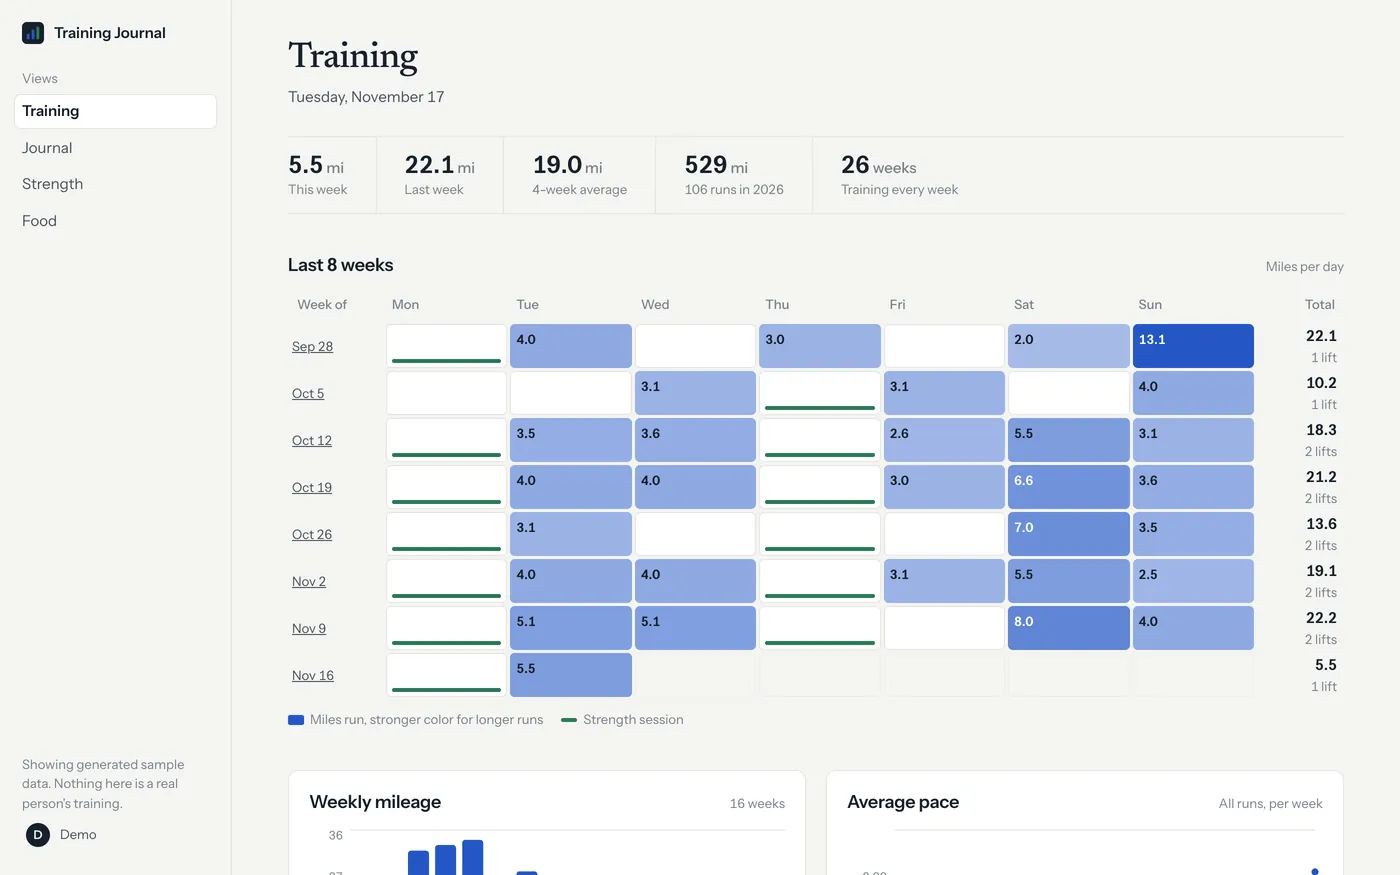
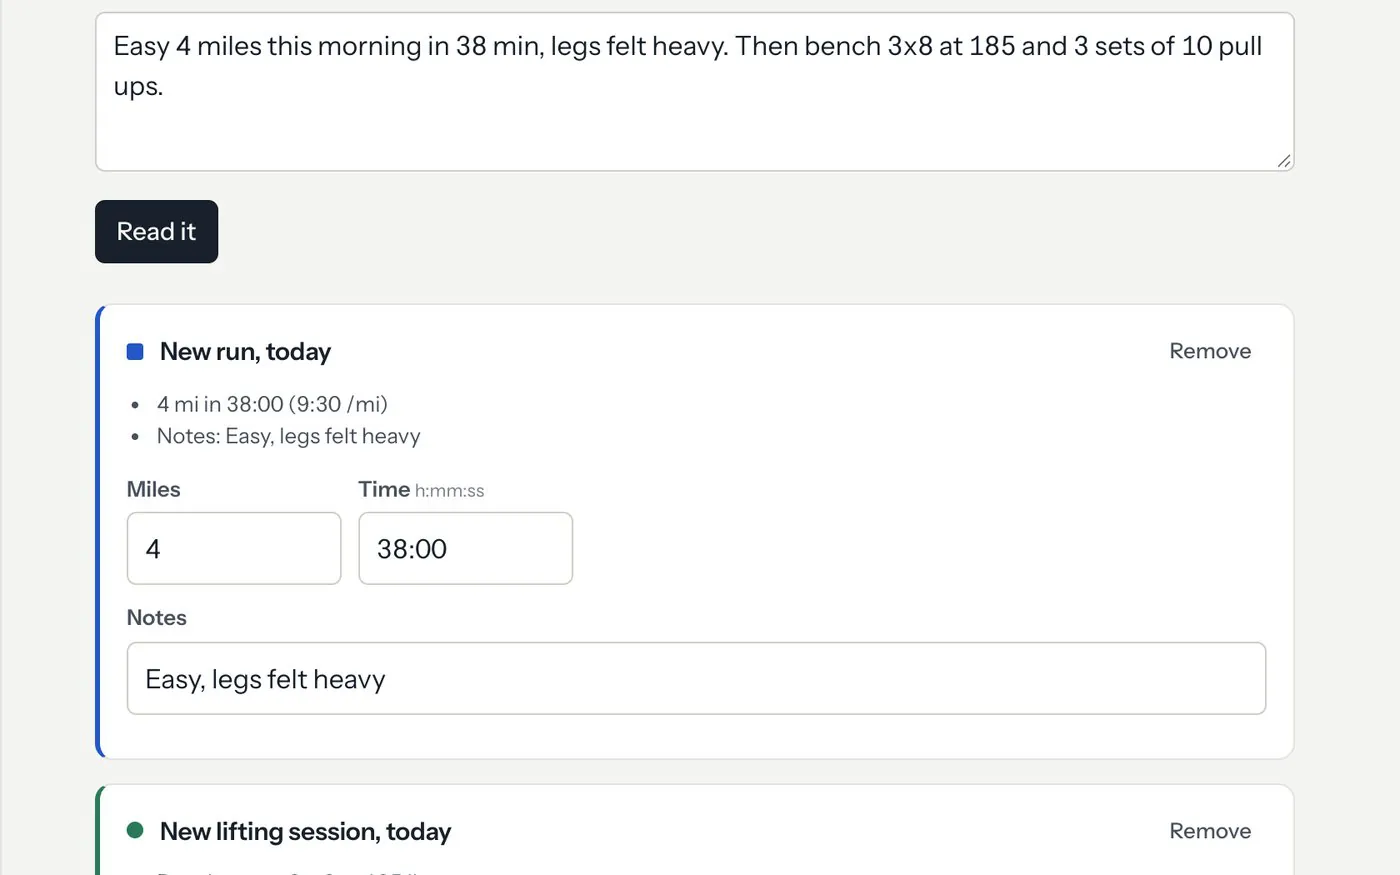
Show Describe it on the Training Journal card

diff --git a/src/data/projects.js b/src/data/projects.js
@@ -57,12 +57,12 @@ const projects = [
     },
     {
         title: "Training Journal",
-        tech: "React, TypeScript, Java, Spring Boot, MongoDB, Python, Docker",
+        tech: "React, TypeScript, Java, Spring Boot, MongoDB, Python, Docker, Ollama",
         headline: "A training log for running, lifting and food.",
         description:
-            "Each run or lift is a journal entry with notes. The dashboard shows weekly mileage, pace trends, best efforts and strength progression. Runs sync from Garmin Connect on a schedule. Food logging tracks daily macros, with food search, barcode scanning and a calorie target set from your weight goal. It installs on a phone like an app, and anyone can try it with sample data and one docker compose up.",
+            "Each run or lift is a journal entry with notes. The dashboard shows weekly mileage, pace trends, best efforts and strength progression. Runs sync from Garmin Connect on a schedule. Food logging tracks daily macros, with food search, barcode scanning and a calorie target set from your weight goal. You can also just describe what you did, like \"ran 4 miles then bench 3x5 at 135\", and a local language model turns it into entries for you to check before saving. It installs on a phone like an app, and anyone can try it with sample data and one docker compose up.",
         image: "images/training-journal.jpg",
-        imageAlt: "Training dashboard with eight weeks of daily miles in a grid, strength days marked in green, a half marathon in the first week of October, and the start of the weekly mileage and average pace charts",
+        imageAlt: "The message \"Easy 4 miles this morning in 38 min, legs felt heavy. Then bench 3x8 at 185 and 3 sets of 10 pull ups.\" turned into a draft run of 4 miles in 38:00 with its notes in editable fields, with a draft lifting session starting below it",
         links: { code: "https://github.com/bjrodrigu/fitness-tracker" },
     },
 ];
